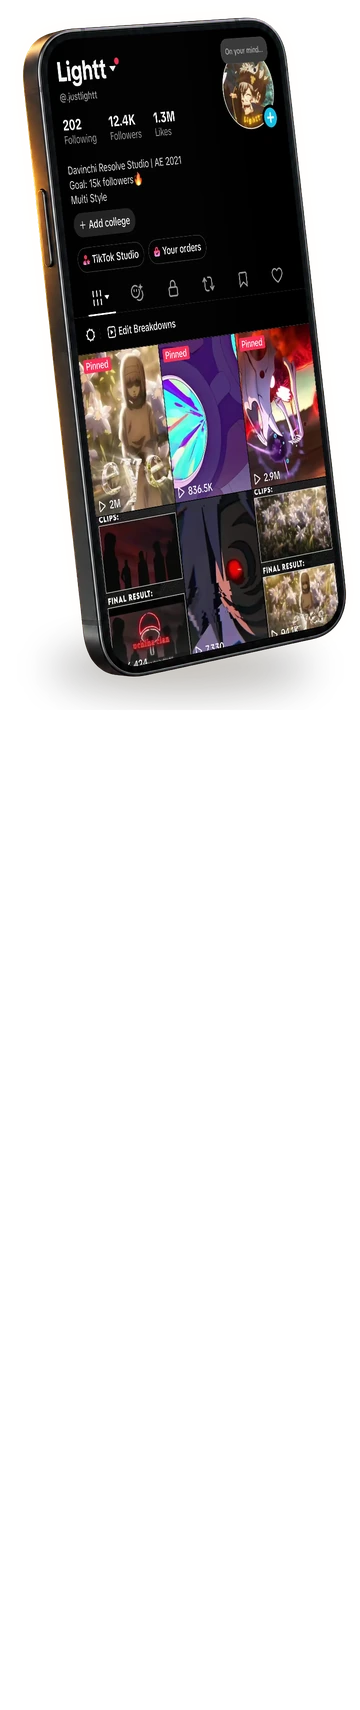
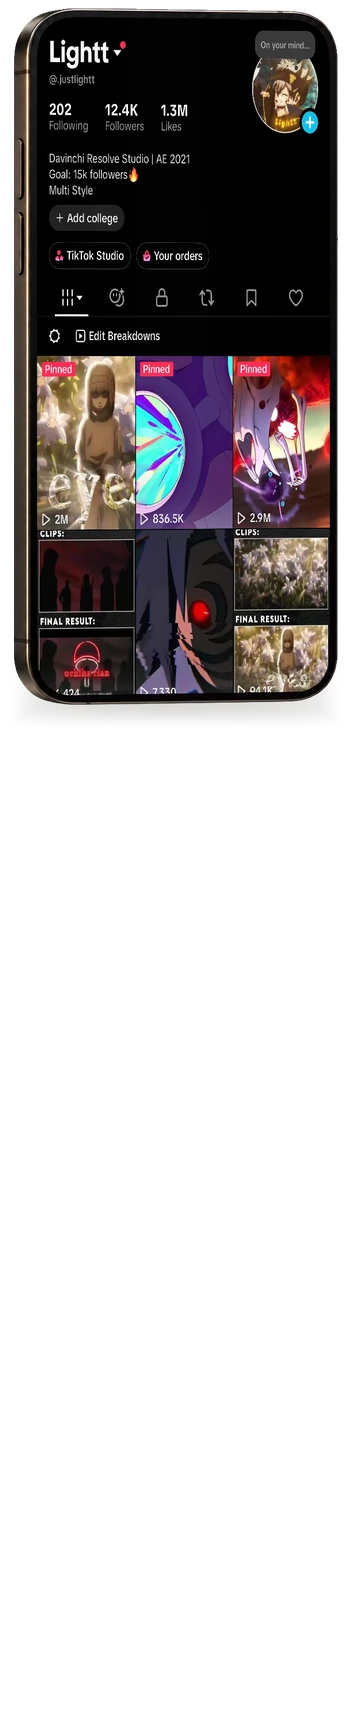
Straighten the phone and add studio link and credits

Changed region(s): [[0.0306, 0.0, 0.9778, 0.4339], [0.4278, 0.062, 0.5194, 0.093]]

diff --git a/README.md b/README.md
@@ -18,11 +18,11 @@
 <a id="editing-reel"></a>
 <a href="#editing-reel"><img src="assets/timeline.svg" alt="My silent, auto-playing showreel. Lincoln Lab, Top Choice Realty, DeFalco Realty, Eternal2x, EternalMonitor, Eternal Summary and TikTok, with dates, results and tools. DoD Investigation in Progress. Reduced motion holds Lincoln Lab." width="100%"></a>
 
-<p align="center"><a href="https://alitleis.dev/studio"><img src="assets/icon-studio.svg" alt="Editing studio" width="18" height="18"> Scrub the real thing in my editing suite</a>.</p>
+<p align="center"><a href="https://alitleis.dev/studio"><img src="assets/link-studio.svg" alt="Scrub the real thing in my editing suite" width="400" height="40"></a></p>
 
 ### 🎬 Why the editing theme
 
-<a href="https://www.tiktok.com/@.justlightt"><picture><source media="(max-width: 600px)" srcset="assets/tiktok-phone-mobile.webp"><source media="(min-width: 601px)" srcset="assets/tiktok-phone.webp" width="150"><img align="left" src="assets/tiktok-phone.webp" alt="My real TikTok profile, @.justlightt, on a tilted titanium phone. 12.4K followers, 1.3M likes, and a top post with 2.9M views." width="38%"></picture></a>
+<a href="https://www.tiktok.com/@.justlightt"><picture><source media="(max-width: 600px)" srcset="assets/tiktok-phone-mobile.webp"><source media="(min-width: 601px)" srcset="assets/tiktok-phone.webp" width="150"><img align="left" src="assets/tiktok-phone.webp" alt="My real TikTok profile, @.justlightt, on a gently angled titanium phone. 12.4K followers, 1.3M likes, and a top post with 2.9M views." width="38%"></picture></a>
 
 ✂ I make anime, show and movie edits in After Effects for 12.4K followers. My top post reached 2.9M views. 🛠 I built Eternal2x for my own edits. The DaVinci Resolve tool treats held frames on 2s as deliberate. I like making tools as much as edits. I study CS + Sociology at Northeastern and spend time with the Video Editing Club and Arab Student Association.
 
@@ -33,3 +33,5 @@
 🧰 `Java` `Python` `TypeScript` `Rust` &middot; `React` `FastAPI` `Solr` `Docker`
 
 <br clear="all">
+
+<img src="assets/footer.svg" alt="Edited and built by Ali Tleis. End of reel, 2026." width="100%">
